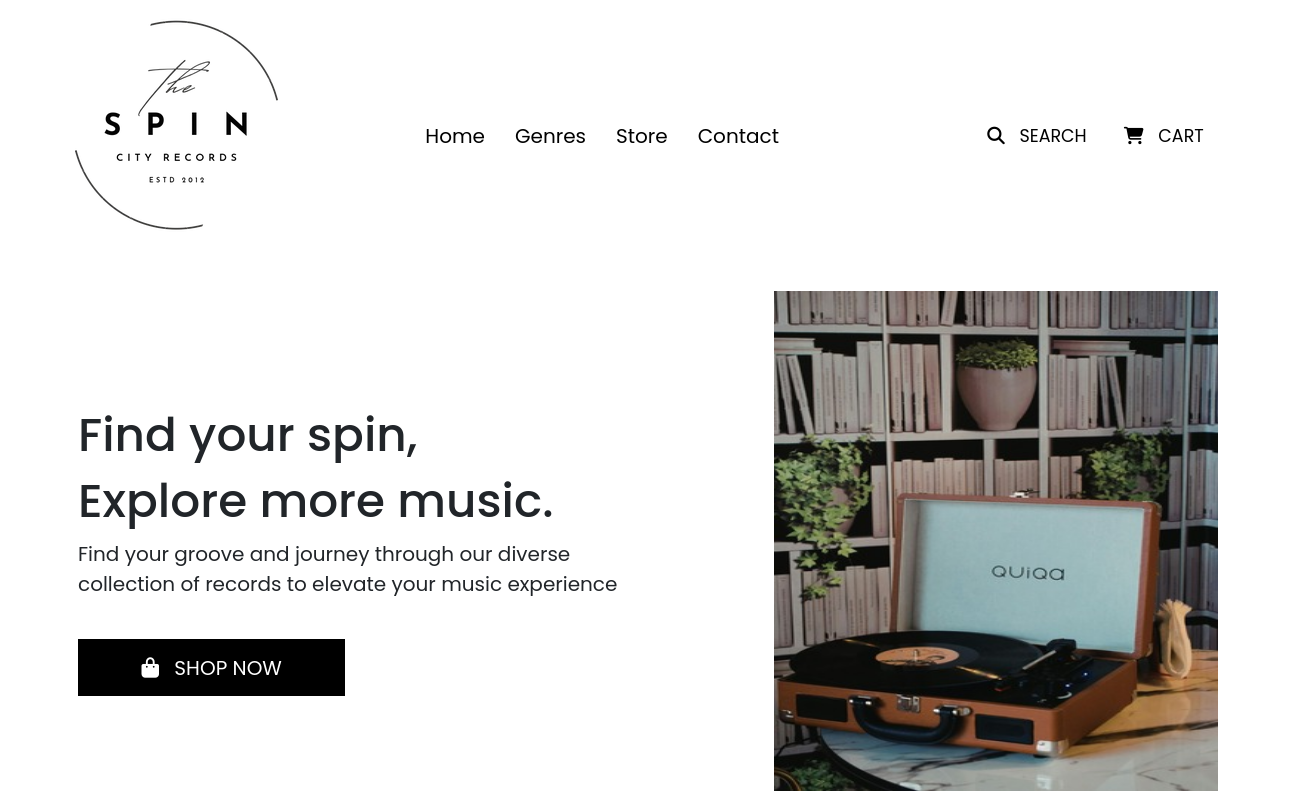
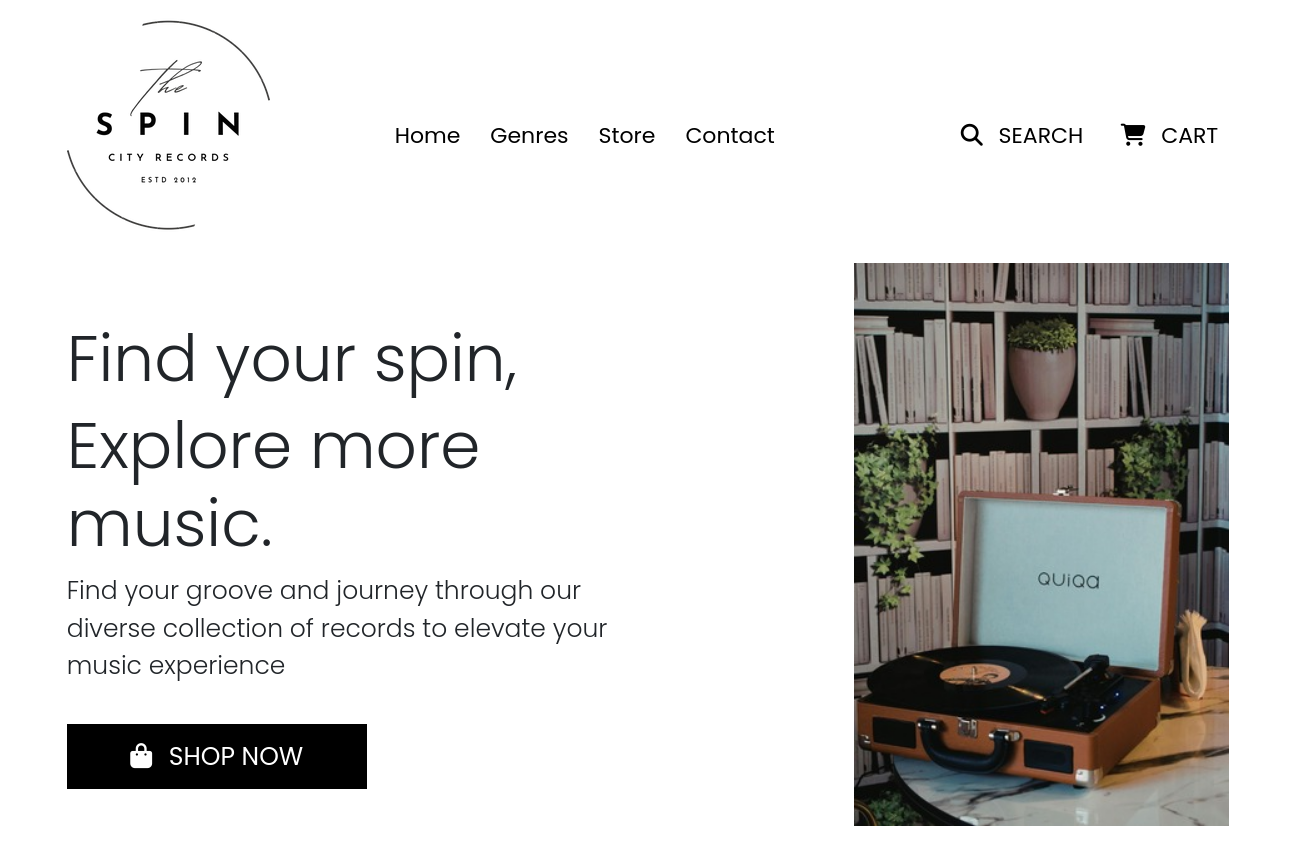
added styles for responsive view

diff --git a/wp-content/themes/spincityrecords/assets/css/custom.css b/wp-content/themes/spincityrecords/assets/css/custom.css
@@ -10,19 +10,29 @@ hr,
 
 #homepage,
 #categories,
-#contact {
-    padding-bottom: 50px;
+#blog,
+#featured {
+    height: 100vh;
+}
+
+#quote {
+    height: 50vh;
+}
+
+nav li a,
+nav #navBtn a {
+    font-size: 1.1rem;
 }
 
 #pageTitle {
-    font-size: 20px;
+    font-size: 23px;
     font-weight: unset !important;
+    
 }
 
 #categoryTitle {
     margin-top: -12px !important;
     margin-bottom: 1rem;
-    font-size: 14px;
 }
 
 body {
@@ -69,7 +79,6 @@ body {
     color: #fff;
     text-transform: uppercase;
     border-radius: unset !important;
-    margin-top: 25px;
 }
 
 #homepage #shopNow:hover {
@@ -97,4 +106,70 @@ body {
 #blog #blogSubtitle {
     font-size: 12px;
     color: rgb(177, 177, 177) !important;
+}
+
+/* @media (min-width: 768px) {
+    h1 {
+        font-size: 3rem;
+    }
+    p {
+        font-size: 1.25rem;
+    }
+    img {
+        height: 500px;
+        width: auto;
+    }
+}
+
+@media (min-width: 1200px) {
+    h1 {
+        font-size: 4rem;
+    }
+    p {
+        font-size: 1.5rem;
+    }
+    img {
+        height: 600px;
+        width: auto;
+    }
+} */
+
+@media (min-width: 1680px) {
+    h1 {
+        font-size: 4rem;
+    }
+
+    p,
+    nav li a,
+    nav #navBtn a  {
+        font-size: 1.5rem;
+    }
+    
+    #homepage img {
+        height: 575px;
+        width: 475px;
+    }
+
+    nav .logo figure img {
+        height: 216px !important;
+        width: auto;
+    }
+
+    #categories img {
+        height: 485px !important;
+        width: 600px !important;
+    }
+
+    #pageTitle {
+        font-size: 36px !important;
+    }
+
+    #categoryTitle {
+        font-size: 25px !important;
+    }
+
+    #featured img {
+        height: 300px !important;
+        width: 300px !important;
+    }
 }

diff --git a/wp-content/themes/spincityrecords/parts/featured.php b/wp-content/themes/spincityrecords/parts/featured.php
@@ -1,51 +1,52 @@
-<div id="featured" style="height: auto">
-    <h1 id="pageTitle" class="text-center">
-        Music is the soul's universal language
-        <div>
-            turning every record into a timeless journey
-        </div>
-    </h1>
-    <div class="featured-products" style="margin-top: 100px !important;">
-        <div class="row">
-            <div class="col-12 col-md-3">
-                <h1 id="pageTitle" class="text-start">
-                    Featured
-                </h1>
-                <p class="text-start">
-                    Unleash the power of sound with our premium music recordings—crafted to elevate your listening experience to new heights!
-                </p>
-                <a href="" class="btn btn-sm text-center" type="button">
-                <i class="fas fa-store me-2"></i>
-                    Visit store
-                </a>
-            </div>
-            <div class="col-12 col-md-3">
-                <figure>
-                    <img src="<?php echo get_template_directory_uri(); ?>/assets/images/featured1.jpg" alt="Featured Product" style="height: 300px;width: 220px;">
-                </figure>
-                <p id="featuredProductTitle" class="text-small">
-                    Product 1
-                </p>
-                <p id="featuredProductPrice" class="text-small" style="margin-top: -13px">$10</p>
-            </div>
-            <div class="col-12 col-md-3">
-                <figure>
-                    <img src="<?php echo get_template_directory_uri(); ?>/assets/images/featured1.jpg" alt="Featured Product" style="height: 300px;width: 220px;">
-                </figure>
-                <p id="featuredProductTitle" class="text-small">
-                    Product 2
-                </p>
-                <p id="featuredProductPrice" class="text-small" style="margin-top: -13px">$8</p>
-            </div>
-            <div class="col-12 col-md-3">
-                <figure>
-                    <img src="<?php echo get_template_directory_uri(); ?>/assets/images/featured1.jpg" alt="Featured Product" style="height: 300px;width: 220px;">
-                </figure>
-                <p id="featuredProductTitle" class="text-small">
-                    Product 3
-                </p>
-                <p id="featuredProductPrice" class="text-small" style="margin-top: -13px">$15</p>
+    <?php get_template_part('partials/quote'); ?>
+    <div id="featured" class="container d-flex justify-content-center align-items-center">
+        <div class="featured-products">
+            <div class="row">
+                <div class="col-12 col-md-3">
+                    <h1 id="pageTitle" class="text-start">
+                        Featured
+                    </h1>
+                    <p class="text-start text-small lead lead-md-1">
+                        Unleash the power of sound with our premium music recordings—crafted to elevate your listening experience to new heights!
+                    </p>
+                    <a href="" class="btn btn-sm text-center" type="button">
+                        <i class="fas fa-store me-2"></i>
+                        Visit store
+                    </a>
+                </div>
+                <div class="col-12 col-md-3 position-relative">
+                    <figure class="mb-0 position-relative">
+                        <img src="<?php echo get_template_directory_uri(); ?>/assets/images/product1.jpeg" alt="Featured Product" class="img-fluid" style="height: 212px; width: 212px;">
+                        <div class="card position-absolute w-75 p-2" style="border-radius: unset !important; border: 0; bottom: -20px; left: 50%; transform: translateX(-50%); background-color: #ffffff; box-shadow: 0px 4px 8px rgba(0, 0, 0, 0.1);">
+                            <p id="featuredProductTitle" class="text-small mb-1">
+                                CD
+                            </p>
+                            <p id="featuredProductPrice" class="text-small mb-0">$10</p>
+                        </div>
+                    </figure>
+                </div>
+                <div class="col-12 col-md-3 position-relative">
+                    <figure class="mb-0 position-relative">
+                        <img src="<?php echo get_template_directory_uri(); ?>/assets/images/product2.jpeg" alt="Featured Product" class="img-fluid" style="height: 212px; width: 212px;">
+                        <div class="card position-absolute w-75 p-2" style="border-radius: unset !important; border: 0; bottom: -20px; left: 50%; transform: translateX(-50%); background-color: #ffffff; box-shadow: 0px 4px 8px rgba(0, 0, 0, 0.1);">
+                            <p id="featuredProductTitle" class="text-small mb-1">
+                                Vinyl
+                            </p>
+                            <p id="featuredProductPrice" class="text-small mb-0">$10</p>
+                        </div>
+                    </figure>
+                </div>
+                <div class="col-12 col-md-3 position-relative">
+                    <figure class="mb-0 position-relative">
+                        <img src="<?php echo get_template_directory_uri(); ?>/assets/images/product3.jpg" alt="Featured Product" class="img-fluid" style="height: 212px; width: 212px;">
+                        <div class="card position-absolute w-75 p-2" style="border-radius: unset !important; border: 0; bottom: -20px; left: 50%; transform: translateX(-50%); background-color: #ffffff; box-shadow: 0px 4px 8px rgba(0, 0, 0, 0.1);">
+                            <p id="featuredProductTitle" class="text-small mb-1">
+                                Cassette
+                            </p>
+                            <p id="featuredProductPrice" class="text-small mb-0">$10</p>
+                        </div>
+                    </figure>
+                </div>
             </div>
         </div>
     </div>
-</div>

diff --git a/wp-content/themes/spincityrecords/parts/categories.php b/wp-content/themes/spincityrecords/parts/categories.php
@@ -1,4 +1,4 @@
-<div id="categories" class="d-flex justify-content-center align-items-center" style="height: 100vh">
+<div id="categories" class="d-flex justify-content-center align-items-center">
     <div class="text-center">
         <h1 id="pageTitle" class="mb-4">
             Catalogue
@@ -6,33 +6,33 @@
         <div class="row">
             <div class="col-12 col-md-3 text-start">
                 <figure>
-                    <img src="<?php echo get_template_directory_uri(); ?>/assets/images/genre1.jpg" alt="Genre Background Image" style="height: 300px;width: 220px;">
+                    <img src="<?php echo get_template_directory_uri(); ?>/assets/images/genre1.jpg" alt="Genre Background Image" style="height: 300px;width: 220px;" class="img-fluid">
                 </figure>
-                <p id="categoryTitle">
+                <p class="lead lead-md-1" id="categoryTitle">
                     CD
                 </p>
             </div>
             <div class="col-12 col-md-3 text-start">
                 <figure>
-                    <img src="<?php echo get_template_directory_uri(); ?>/assets/images/genre2.jpg" alt="Genre Background Image" style="height: 300px;width: 220px;">
+                    <img src="<?php echo get_template_directory_uri(); ?>/assets/images/genre2.jpg" alt="Genre Background Image" style="height: 300px;width: 220px;" class="img-fluid">
                 </figure>
-                <p id="categoryTitle">
+                <p class="lead lead-md-1" id="categoryTitle">
                     Vinyl
                 </p>
             </div>
             <div class="col-12 col-md-3 text-start">
                 <figure>
-                    <img src="<?php echo get_template_directory_uri(); ?>/assets/images/genre3.jpg" alt="Genre Background Image" style="height: 300px;width: 220px;">
+                    <img src="<?php echo get_template_directory_uri(); ?>/assets/images/genre3.jpg" alt="Genre Background Image" style="height: 300px;width: 220px;" class="img-fluid">
                 </figure>
-                <p id="categoryTitle">
+                <p class="lead lead-md-1" id="categoryTitle">
                     Cassette
                 </p>
             </div>
             <div class="col-12 col-md-3 text-start">
                 <figure>
-                    <img src="<?php echo get_template_directory_uri(); ?>/assets/images/genre4.jpg" alt="Genre Background Image" style="height: 300px;width: 220px;">
+                    <img src="<?php echo get_template_directory_uri(); ?>/assets/images/genre4.jpg" alt="Genre Background Image" style="height: 300px;width: 220px;" class="img-fluid">
                 </figure>
-                <p id="categoryTitle">
+                <p class="lead lead-md-1" id="categoryTitle">
                     Others
                 </p>
             </div>

diff --git a/wp-content/themes/spincityrecords/parts/homepage.php b/wp-content/themes/spincityrecords/parts/homepage.php
@@ -1,22 +1,20 @@
-<div id="homepage">
-    <div class="container">
-        <div class="row">
-            <div class="col-12 col-md-6 d-flex align-items-center justify-content-center">
-                <div class="content text-start">
-                    <h1>Find your spin,</h1>
-                    <h1>Explore more music.</h1>
-                    <p>Find your groove and journey through our diverse collection of records to elevate your music experience</p>
-                    <a class="btn mt-3" href="#" id="shopNow">
+<div id="homepage" class="d-flex justify-content-center align-items-center">
+    <div class="row">
+        <div class="col-12 col-md-6 d-flex align-items-center justify-content-center">
+            <div class="content text-start">
+                <h1 class="display-4 display-md-3 display-lg-1">Find your spin,</h1>
+                <h1 class="display-4 display-md-3 display-lg-1">Explore more music.</h1>
+                <p class="lead lead-md-1">Find your groove and journey through our diverse collection of records to elevate your music experience</p>
+                <a class="btn btn-lg mt-3" href="#" id="shopNow">
                     <i class="fa-solid fa-bag-shopping me-2"></i>
-                        Shop Now
-                    </a>
-                </div>
+                    Shop Now
+                </a>
             </div>
-            <div class="col-12 col-md-6 d-flex align-items-end justify-content-end">
-                <figure>
-                    <img src="<?php echo get_template_directory_uri(); ?>/assets/images/bg.jpg" alt="Background Image" style="height: 400px; width: 355px;">
-                </figure>
-            </div>
+        </div>
+        <div class="col-12 col-md-6 d-flex align-items-end justify-content-end">
+            <figure>
+                <img src="<?php echo get_template_directory_uri(); ?>/assets/images/bg.jpg" class="img-fluid" alt="Background Image">
+            </figure>
         </div>
     </div>
 </div>

diff --git a/wp-content/themes/spincityrecords/parts/blog.php b/wp-content/themes/spincityrecords/parts/blog.php
@@ -1,18 +1,18 @@
-<div id="blog" style="height: 100vh; padding-top: 100px;">
+<div id="blog" class="d-flex justify-content-center align-items-center">
     <div class="row">
         <div class="col-12 col-md-6">
             <figure>
                 <img src="<?php echo get_template_directory_uri(); ?>/assets/images/blog1.jpg" alt="Blog Background Image" style="height: 235px; width: 450px;">
             </figure>
-            <p id="blogSubtitle" class="text-small">Edition 1</p>
-            <p id="blogTitle" class="text-small" style="margin-top: -13px">Rhythms of the Night: Unforgettable Moments from the Ultimate Music Festival Experience</p>
+            <p id="blogSubtitle" class="text-small lead lead-md-1">Edition 1</p>
+            <p id="blogTitle" class="text-small lead lead-md-1" style="margin-top: -13px">Rhythms of the Night: Unforgettable Moments from the Ultimate Music Festival Experience</p>
         </div>
         <div class="col-12 col-md-6">
             <figure>
                 <img src="<?php echo get_template_directory_uri(); ?>/assets/images/blog2.jpg" alt="Blog Background Image" style="height: 235px; width: 450px;">
             </figure>
-            <p id="blogSubtitle" class="text-small">Edition 2</p>
-            <p id="blogTitle" class="text-small" style="margin-top: -13px">Echoes of Harmony: Celebrating the Best Beats and Bands at This Year’s Music Festival</p>
+            <p id="blogSubtitle" class="text-small lead lead-md-1">Edition 2</p>
+            <p id="blogTitle" class="text-small lead lead-md-1" style="margin-top: -13px">Echoes of Harmony: Celebrating the Best Beats and Bands at This Year’s Music Festival</p>
         </div>
     </div>
 </div>

diff --git a/wp-content/themes/spincityrecords/partials/quote.php b/wp-content/themes/spincityrecords/partials/quote.php
@@ -1,0 +1,8 @@
+<div id="quote" class="d-flex justify-content-center align-items-center">
+    <h1 id="pageTitle" class="text-center">
+        Music is the soul's universal language
+        <div>
+            turning every record into a timeless journey
+        </div>
+    </h1>
+</div>
